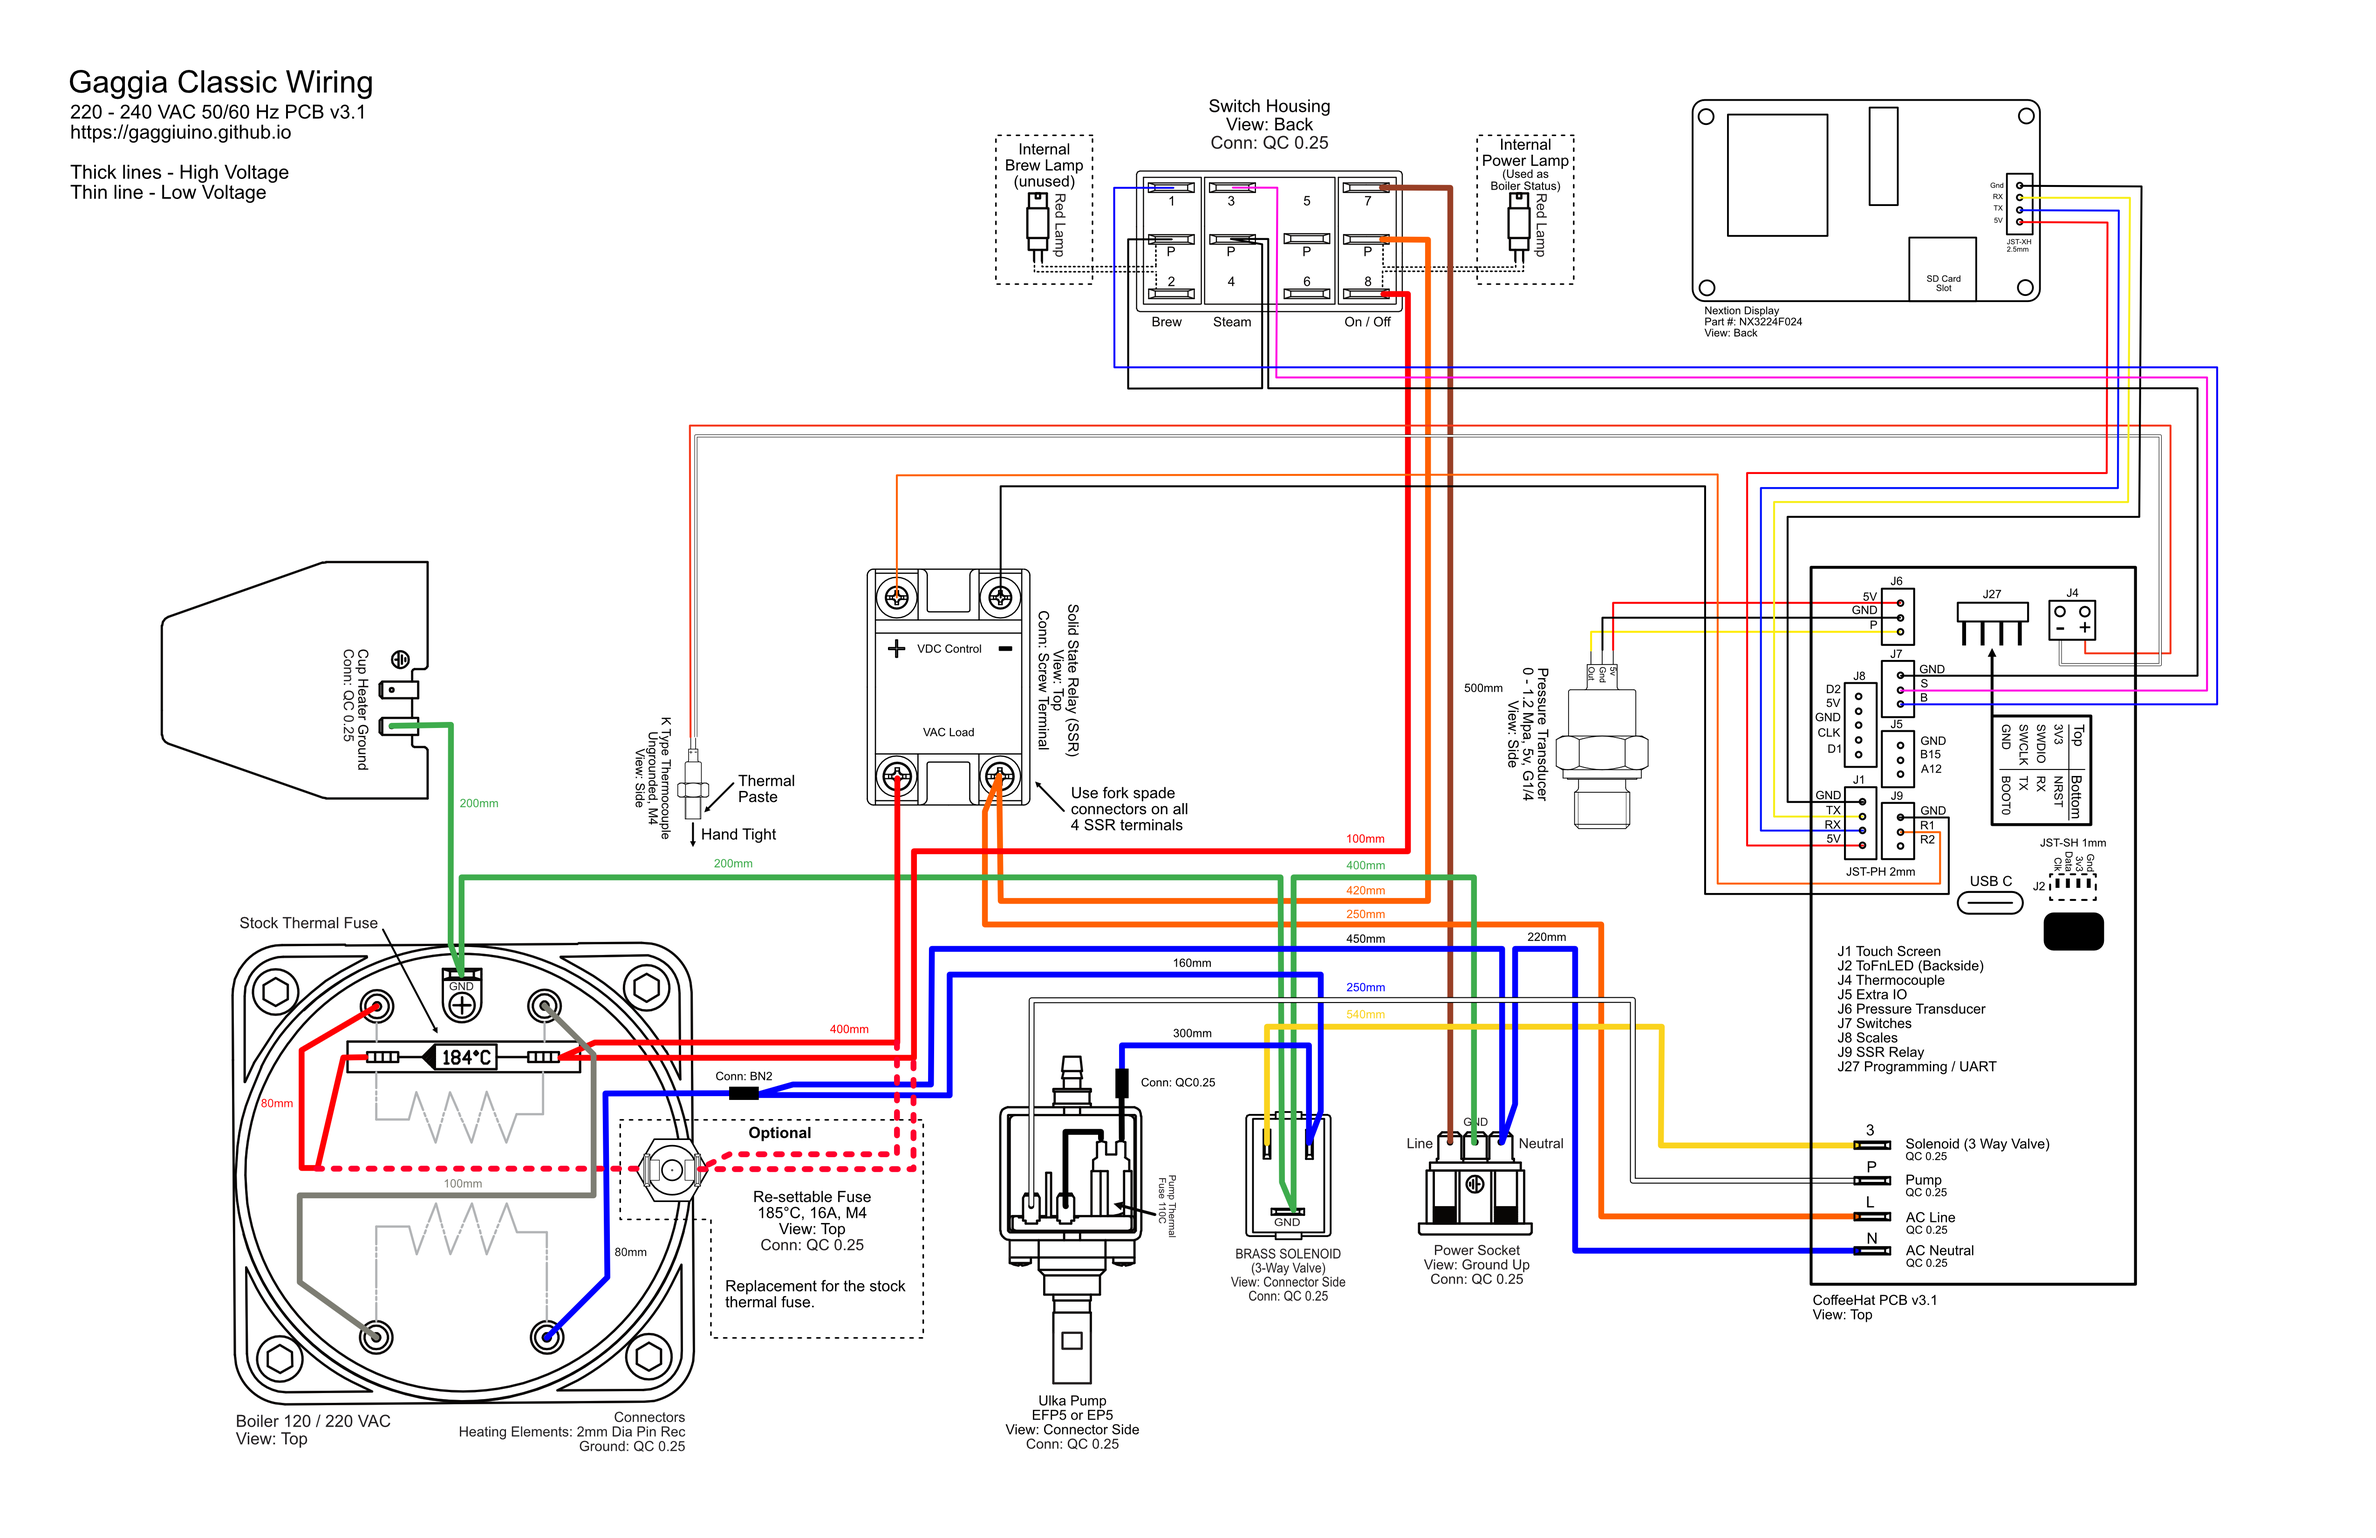
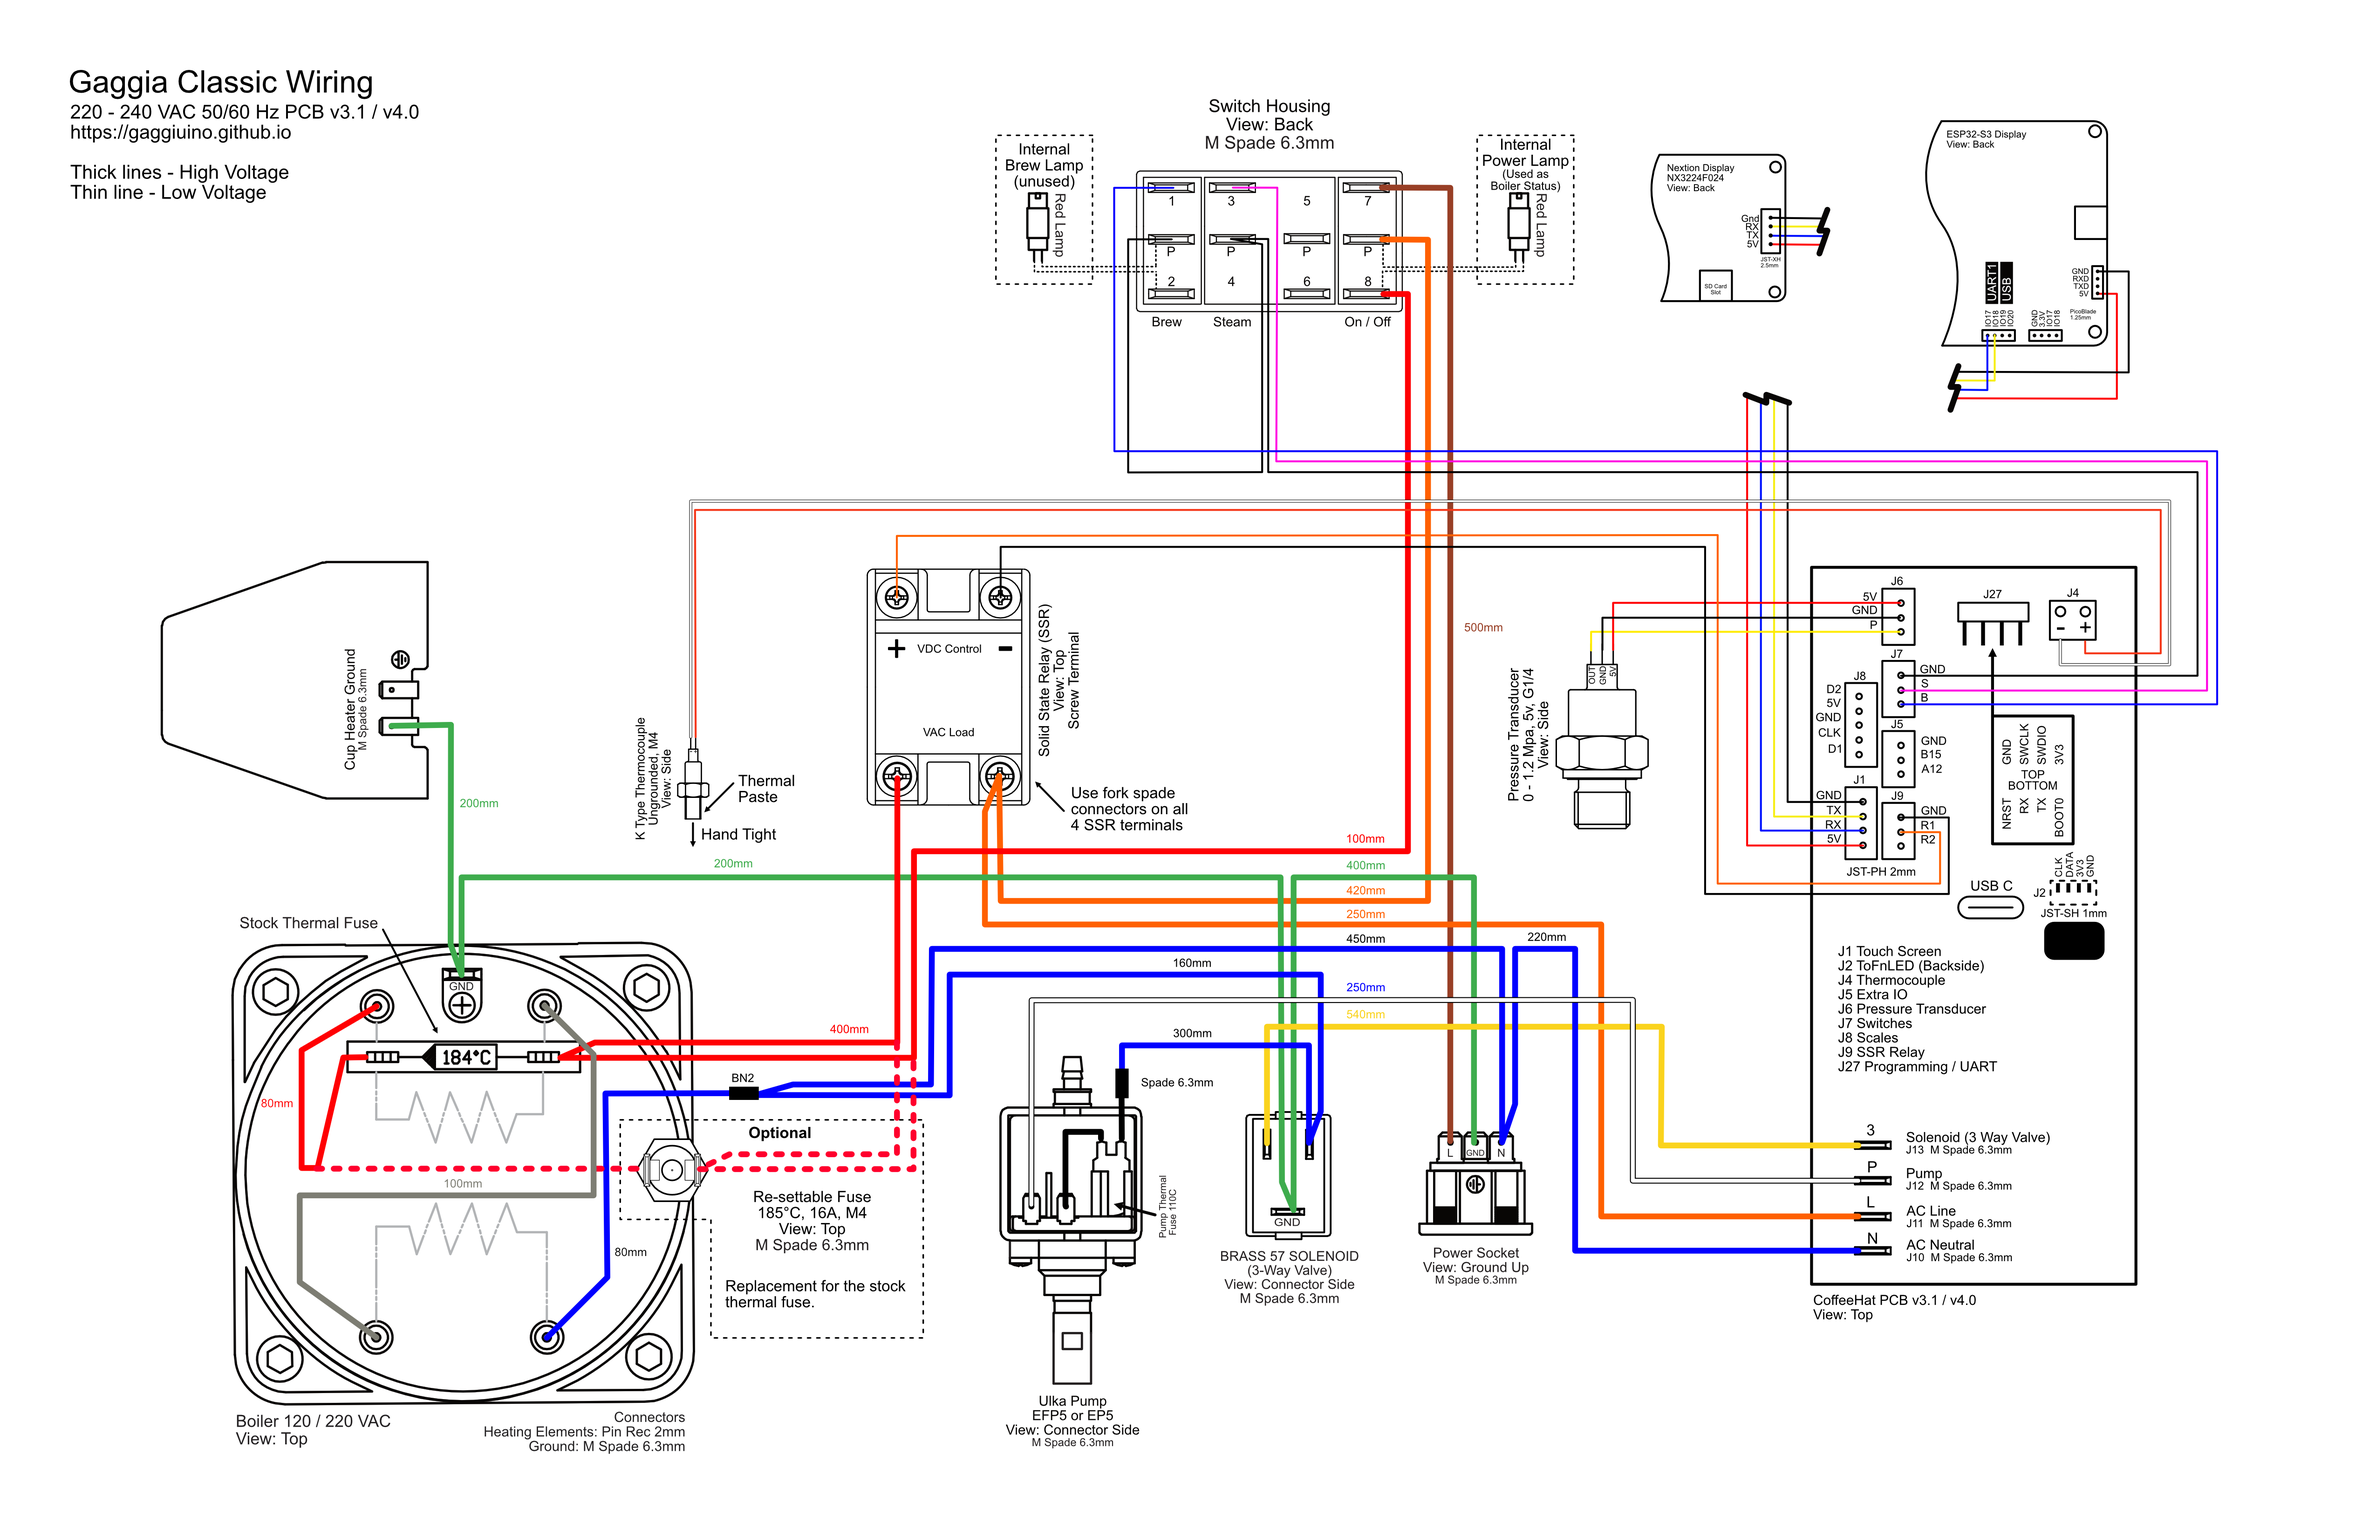
Custom wiring schematic updates

diff --git a/docs/guides-stm32/3pln-custom-wiring.md b/docs/guides-stm32/3pln-custom-wiring.md
@@ -42,7 +42,7 @@ The BOM is compiled for the standard install path where all components are taken
 *Remember to check and add [Grounding](guides/machine-specific-guide.md#grounding) if needed.*  
 
 <!-- tabs:start -->
-<!-- tab:PCBv3.1 -->
+<!-- tab:PCBv3.1/v4 -->
 <img width="600" alt="GC 120v" src="schematics/custom-3pln/GC_wiring_PCBv3_1_120v.png">
 <!-- tab:PCBv3 -->
 <img width="600" alt="GC 120v" src="schematics/custom-3pln/GC_wiring_PCBv3_120v.png">
@@ -51,7 +51,7 @@ The BOM is compiled for the standard install path where all components are taken
 <!-- tab:Gaggia Classic 220-240v -->
 
 <!-- tabs:start -->
-<!-- tab:PCBv3.1 -->
+<!-- tab:PCBv3.1/v4 -->
 <img width="600" alt="GC 220v" src="schematics/custom-3pln/GC_wiring_PCBv3_1_220v.png">
 <!-- tab:PCBv3 -->
 <img width="600" alt="GC 220v" src="schematics/custom-3pln/GC_wiring_PCBv3_220v.png">
@@ -60,7 +60,7 @@ The BOM is compiled for the standard install path where all components are taken
 <!-- tab:Gaggia Classic Pro 100-120v -->
 
 <!-- tabs:start -->
-<!-- tab:PCBv3.1 -->
+<!-- tab:PCBv3.1/v4 -->
 <img width="600" alt="GCP 120v" src="schematics/custom-3pln/GCP_wiring_PCBv3_1_120v.png">
 <!-- tab:PCBv3 -->
 <img width="600" alt="GCP 120v" src="schematics/custom-3pln/GCP_wiring_PCBv3_120v.png">
@@ -71,7 +71,7 @@ The BOM is compiled for the standard install path where all components are taken
 *Remember to do the [Power switch mod](guides/machine-specific-guide.md#power-switch-mod) to make it bistable.*  
 
 <!-- tabs:start -->
-<!-- tab:PCBv3.1 -->
+<!-- tab:PCBv3.1/v4 -->
 <img width="600" alt="GCP 220v" src="schematics/custom-3pln/GCP_wiring_PCBv3_1_220v.png">
 <!-- tab:PCBv3 -->
 <img width="600" alt="GCP 220v" src="schematics/custom-3pln/GCP_wiring_PCBv3_220v.png">

diff --git a/docs/guides-stm32/pcb-guide.md b/docs/guides-stm32/pcb-guide.md
@@ -10,14 +10,14 @@ See [MCU Flashing](guides-stm32/mcu-flashing.md) for instructions on flashing th
 <!-- tabs:start -->
 <!-- tab:GCP -->
   <!-- tabs:start -->
-  <!-- tab:PCBv3.1/PCBv4 -->
+  <!-- tab:PCBv3.1/v4 -->
   <img height="400" alt="image" src="schematics/stm32-lv/GCP_wiring_PCBv3_1_LV.png">
   <!-- tab:PCBv3 -->
   <img height="400" alt="image" src="schematics/stm32-lv/GCP_wiring_PCBv3_LV.png">
   <!-- tabs:end -->
 <!-- tab:GC -->
   <!-- tabs:start -->
-  <!-- tab:PCBv3.1/PCBv4 -->
+  <!-- tab:PCBv3.1/v4 -->
   <img height="400" alt="image" src="schematics/stm32-lv/GC_wiring_PCBv3_1_LV.png">
   <!-- tab:PCBv3 -->
   <img height="400" alt="image" src="schematics/stm32-lv/GC_wiring_PCBv3_LV.png">
@@ -30,7 +30,7 @@ See [MCU Flashing](guides-stm32/mcu-flashing.md) for instructions on flashing th
 > Make sure electronics are in their housings and/or secure on a non-conductive surface **before power is supplied**!
 
 <!-- tabs:start -->
-<!-- tab:PCBv3.1/PCBv4 -->
+<!-- tab:PCBv3.1/v4 -->
 Connect the system components - thermocouple, pressure transducer, screen, SSR, ToFnLED (if available) - to the PCB and power on the system through the USB-C port on the PCB.  
 
 <img width="500" alt="image" src="https://github.com/user-attachments/assets/5ea67541-0cf4-4064-9f87-19ad900bef8b">
